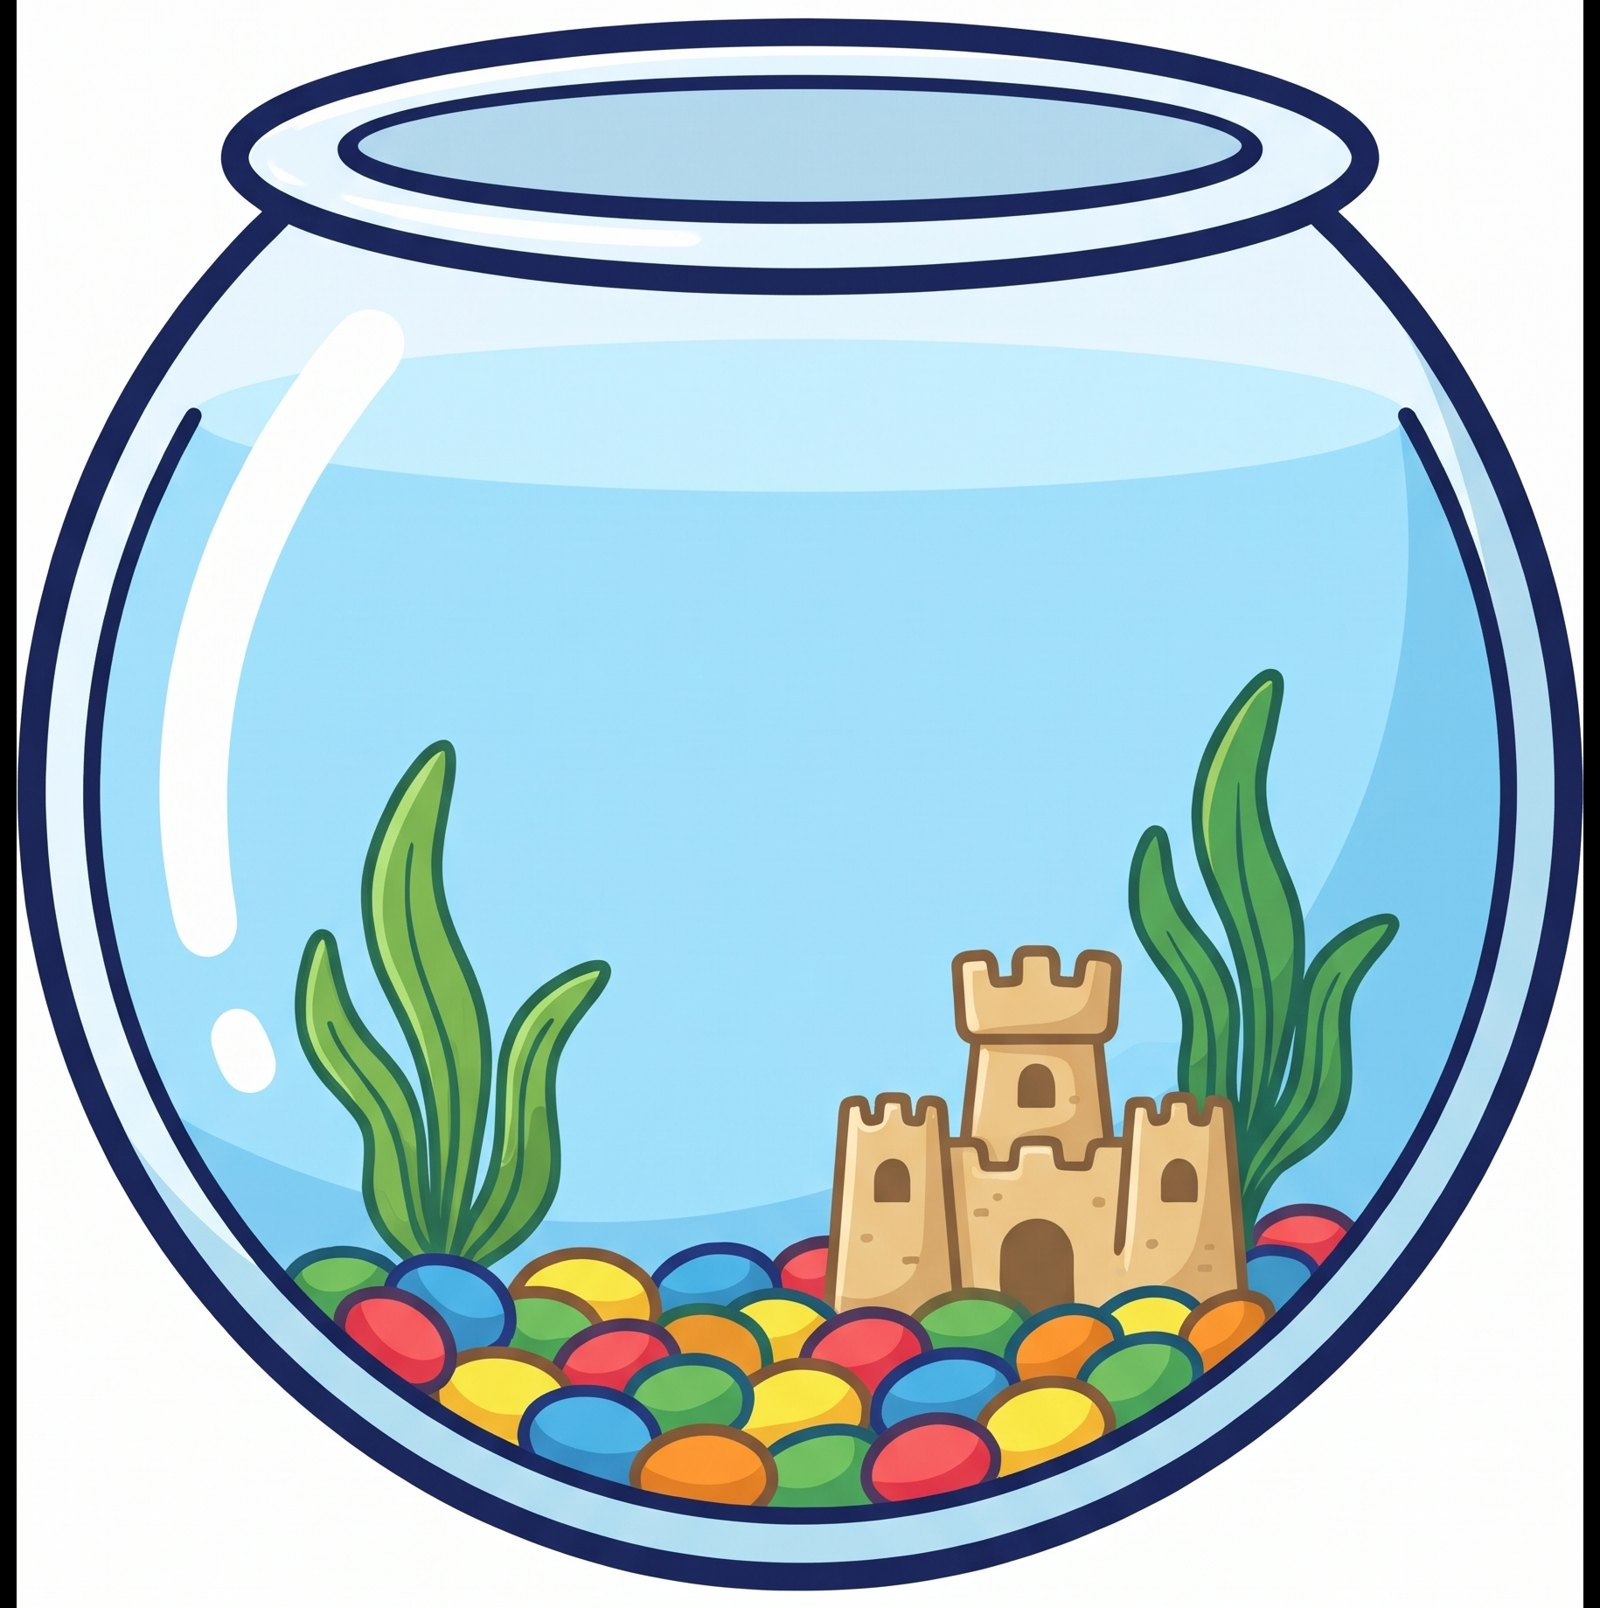
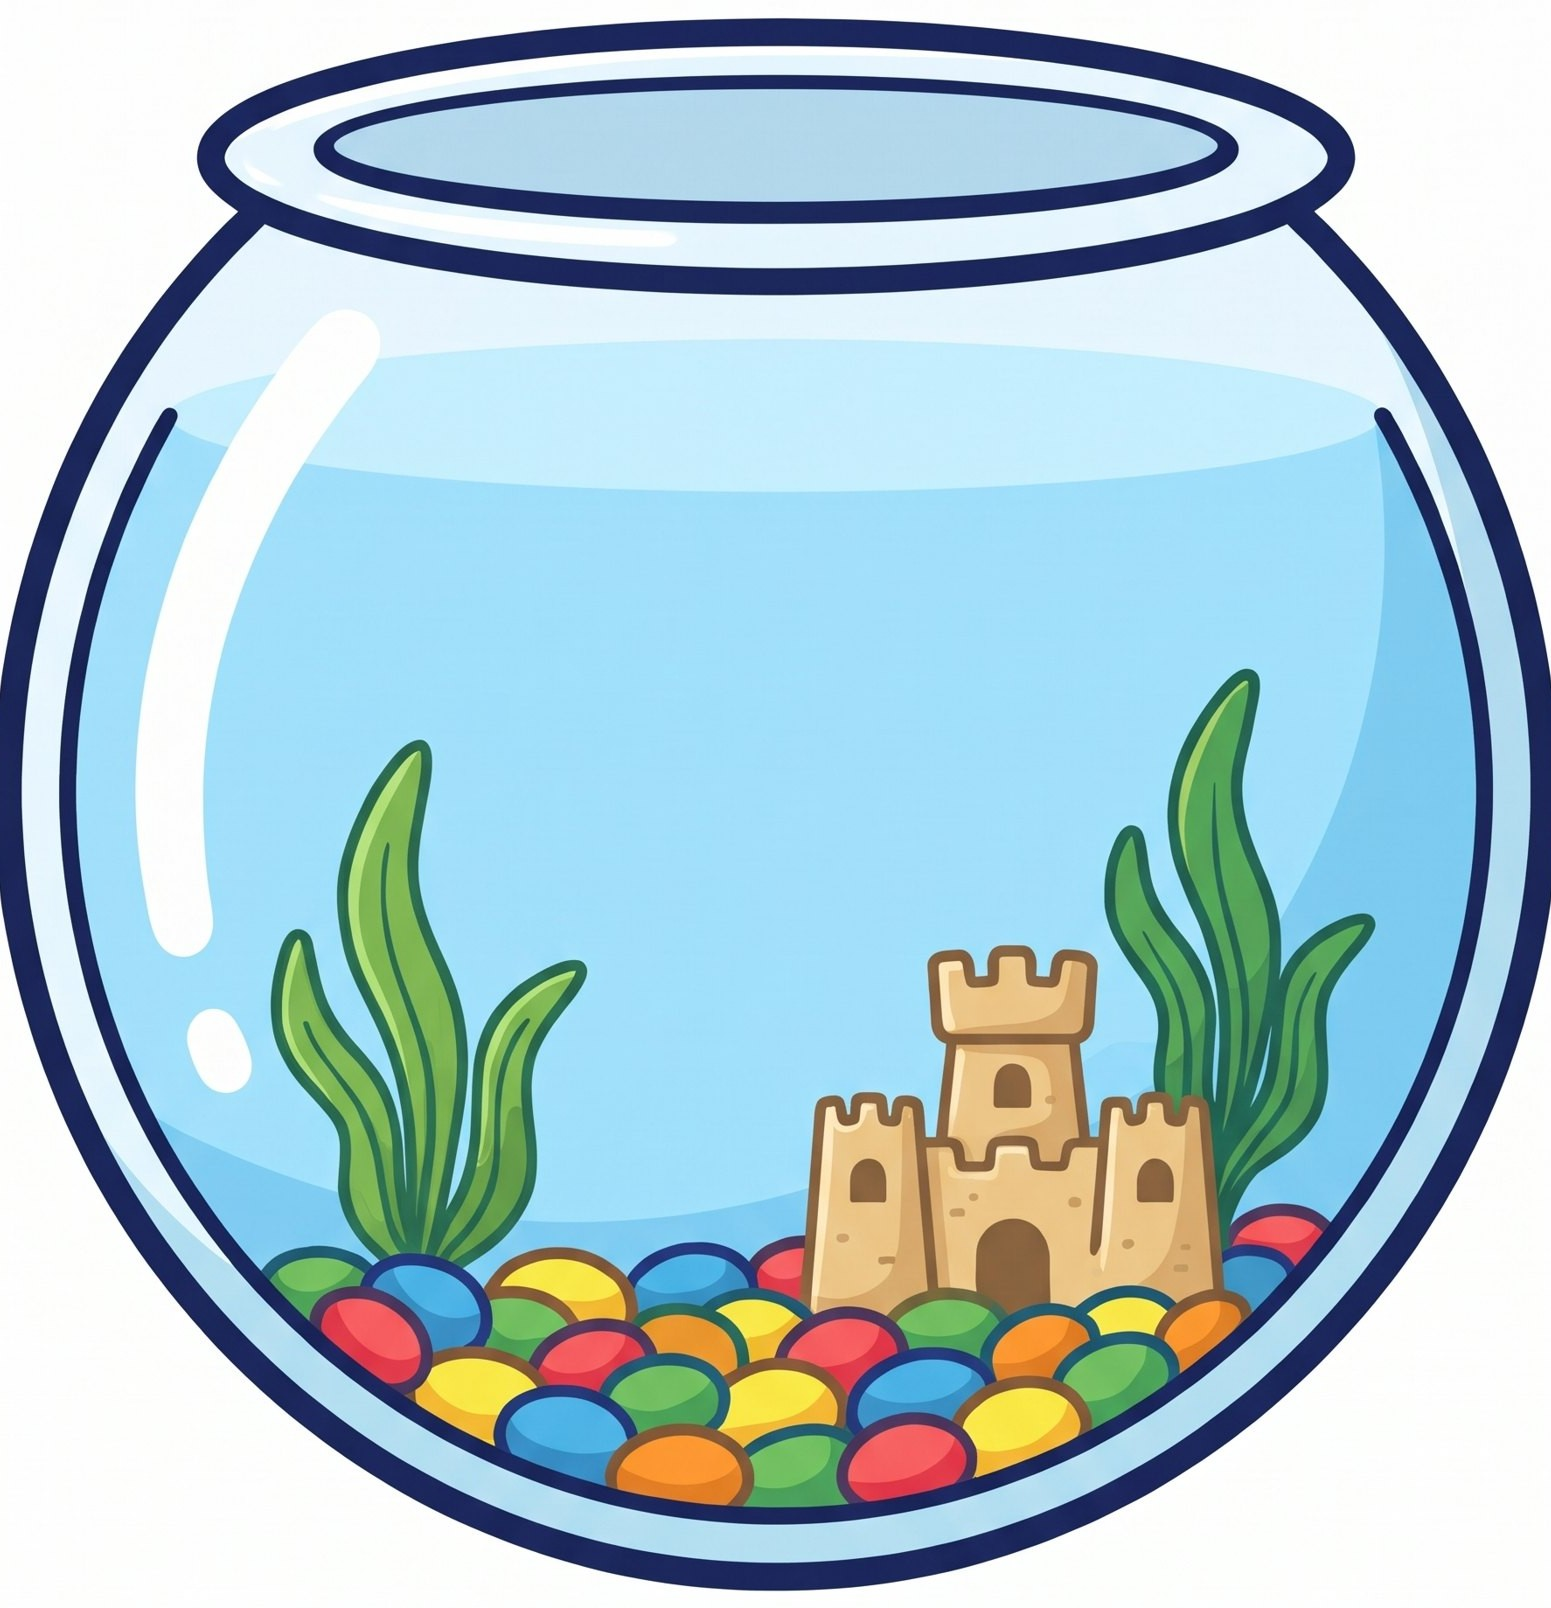
Vet kit: fix fish bowl edges and fish cut circles, add clinic notepad page (#194)
Claude-Session: https://claude.ai/code/session_01MVCCifdUDWfGEXCNaTCuGV

diff --git a/src/kits/clinic.js b/src/kits/clinic.js
@@ -155,6 +155,22 @@ function adoptionPages(k) {
   <section class="page ac-page"><p class="pg-sub">Adoption certificates: one for each pet that finds a new family. Fold one in half to fit it in the folder pocket.</p>${adoptionCert(k)}<div class="cut-h"></div>${adoptionCert(k)}</section>`;
 }
 
+// ---------- vet notepad ----------
+
+// Four little notepad sheets to a page, like the one Jason's wife made (2026-11-17): a to-do list with
+// a "when" line beside each box, and room for notes. The round logo is a paw, not a smiley (no faces).
+function notepadSheet(k) {
+  const N = k.def.notepad;
+  const row = () => '<div class="np-row"><i class="box"></i><span class="np-l"></span><span class="np-d"></span></div>';
+  return `<div class="np-cut"><div class="np"><div class="np-top"><div class="np-logo">${art.pic('🐾', '.34in')}</div><b>${esc(N.title)}</b></div>
+    <div class="np-icons">${art.pic('📋', '.5in')}<span>${esc(N.when)}</span>${art.pic('📅', '.5in')}</div>
+    ${Array.from({ length: 6 }, row).join('')}
+    <div class="np-notes">${art.pic('📝', '.5in')}<div><span class="np-l"></span><span class="np-l"></span><span class="np-l"></span></div></div>
+  </div></div>`;
+}
+
+const notepadPage = (k) => (k.def.notepad ? `<section class="page np-page"><p class="pg-sub">Clinic notepad: cut the pad sheets apart on the dashed lines. Write down what each pet needs and when.</p><div class="np-grid">${notepadSheet(k).repeat(4)}</div></section>` : '');
+
 // ---------- bandages ----------
 
 const PATTERNS = [
@@ -350,8 +366,8 @@ const clinicCss = `
 /* fish bowl */
 .fb-page { padding:.4in .45in; display:flex; flex-direction:column; align-items:center; }
 .fb-bowl { flex:1; min-height:0; width:100%; object-fit:contain; margin-top:.1in; }
-.fb-fish { flex:1; display:grid; grid-template-columns:repeat(3, minmax(0,1fr)); gap:.18in; align-content:center; width:7.2in; max-width:100%; box-sizing:border-box; margin-top:.15in; }
-.fb-cut { border:1.5px dashed #b7c0cc; border-radius:50%; aspect-ratio:1.25; display:grid; place-items:center; padding:.18in; min-width:0; box-sizing:border-box; overflow:hidden; }
+.fb-fish { flex:1; display:grid; grid-template-columns:repeat(3, minmax(0,1fr)); gap:.18in; align-content:center; width:7.4in; max-width:100%; box-sizing:border-box; margin-top:.15in; }
+.fb-cut { border:1.5px dashed #b7c0cc; border-radius:50%; aspect-ratio:1.1; display:grid; place-items:center; padding:.36in; min-width:0; box-sizing:border-box; overflow:hidden; }
 .fb-cut img { max-width:100%; max-height:100%; object-fit:contain; }
 /* adoption folder and certificates */
 .af-page { padding:.35in .4in; display:flex; flex-direction:column; } .af-page .pg-sub { margin:0 0 .1in; }
@@ -379,6 +395,18 @@ const clinicCss = `
 .ac-words { flex:1; display:flex; flex-direction:column; justify-content:center; gap:.1in; text-align:center; } .ac-words p { font:500 13pt/1.3 'Fredoka'; color:var(--navy); margin:0; }
 .ac-f, .ac-sign > div { display:flex; flex-direction:column; } .ac-f small, .ac-sign small { font:500 9pt 'Fredoka'; color:#8a93a8; text-align:center; }
 .ac-sign { display:flex; gap:.5in; } .ac-sign > div { flex:1; }
+/* notepad */
+.np-page { padding:.35in .4in; display:flex; flex-direction:column; } .np-page .pg-sub { margin:0 0 .12in; }
+.np-grid { flex:1; min-height:0; display:grid; grid-template-columns:1fr 1fr; grid-template-rows:minmax(0,1fr) minmax(0,1fr); }
+.np-cut { border:1.5px dashed #b7c0cc; margin:-.75px; padding:.12in; display:flex; }
+.np { flex:1; display:flex; flex-direction:column; border-radius:6px; overflow:hidden; background:#fff; box-shadow:0 0 0 1.5px var(--teal) inset; }
+.np-top { background:var(--teal); display:grid; place-items:center; padding:.1in 0; }
+.np-top b { display:none; }
+.np-logo { width:.55in; height:.55in; border:3px solid #fff; border-radius:50%; display:grid; place-items:center; background:#fff; }
+.np-icons { display:flex; justify-content:space-between; align-items:center; padding:.1in .35in .02in .3in; } .np-icons span { display:none; }
+.np-row { display:flex; align-items:flex-end; gap:.12in; padding:.07in .3in 0; flex:1; } .np-row .box { border-color:var(--teal); flex:none; margin-bottom:.02in; }
+.np-l { flex:1; border-bottom:2px solid var(--teal); height:100%; min-height:.14in; } .np-d { width:1.1in; flex:none; border-bottom:2px solid var(--teal); height:100%; min-height:.14in; }
+.np-notes { display:flex; align-items:flex-end; gap:.1in; padding:.1in .3in .15in; flex:1.4; } .np-notes > div { flex:1; height:100%; display:flex; flex-direction:column; justify-content:space-around; } .np-notes .np-l { flex:none; height:.1in; width:100%; }
 /* bandages */
 .bd-page { padding:.4in .45in; display:flex; flex-direction:column; align-items:center; }
 .bd-row { display:flex; gap:.18in; justify-content:center; margin-top:.05in; }
@@ -448,4 +476,4 @@ const clinicCss = `
 .tc-seal { width:auto !important; }
 `;
 
-module.exports = { adoptionPages, fishbowlPages, doorSignPages, fileSheetPage, wrapLabelPages, bandagePages, tabletPages, checkupPages, trainingPage, clinicCss };
+module.exports = { notepadPage, adoptionPages, fishbowlPages, doorSignPages, fileSheetPage, wrapLabelPages, bandagePages, tabletPages, checkupPages, trainingPage, clinicCss };

diff --git a/docs/js/data.js b/docs/js/data.js
@@ -162,7 +162,7 @@ const LAYERS = [
 const PRICES = { hunt: 9.99, kit: 7.99, party: 4.99, 'hunt+kit': 14.99, 'hunt+party': 12.99, 'kit+party': 11.99, bundle: 15.99, activity: 6.99, activityAdd: 4 };
 // Real page counts from scripts/page-counts.js (re-run it after adding pages). A hunt is 7 pages plus
 // one sheet per two clue cards, so it follows the spots picked.
-const PAGES = {"kit":{"dino":44,"hero":44,"pirate":44,"space":44,"royal":44,"unicorn":45,"mermaid":45,"construction":45,"vet":54,"easter":47,"halloween":46,"christmas":44,"valentine":44,"fire":42,"ice":45,"racecar":45,"pizza":54,"burger":47,"grocery":48,"post":49,"library":48,"police":47,"dentist":51,"petshop":47,"coffee":48,"italian":54,"auto":47,"kitchen":57,"doctor":51,"puppet":50,"agent":54,"dressup":49,"icecream":51,"airport":49},"activity":{"big":19,"little":20},"party":15,"craft":{"halloween":20,"christmas":20,"memory":29,"zoo":28,"fingerprint":28}};
+const PAGES = {"kit":{"dino":44,"hero":44,"pirate":44,"space":44,"royal":44,"unicorn":45,"mermaid":45,"construction":45,"vet":55,"easter":47,"halloween":46,"christmas":44,"valentine":44,"fire":42,"ice":45,"racecar":45,"pizza":54,"burger":47,"grocery":48,"post":49,"library":48,"police":47,"dentist":51,"petshop":47,"coffee":48,"italian":54,"auto":47,"kitchen":57,"doctor":51,"puppet":50,"agent":54,"dressup":49,"icecream":51,"airport":49},"activity":{"big":19,"little":20},"party":15,"craft":{"halloween":20,"christmas":20,"memory":29,"zoo":28,"fingerprint":28}};
 function pagesOf(k, theme, spots = 6, ages = 'big') {
   return { hunt: 7 + Math.ceil(Math.min(10, Math.max(6, spots)) / 2), kit: PAGES.kit[theme], activity: PAGES.activity[ages] + (typeof ORIGAMI !== 'undefined' && ORIGAMI[theme] ? 2 : 0), party: PAGES.party }[k] || 0;
 }

diff --git a/src/kits/defs/vet.js b/src/kits/defs/vet.js
@@ -143,6 +143,8 @@ module.exports = {
   fishbowl: { title: 'Fish Bowl', howTo: 'Hang the bowl on a wall or the side of a box, then add the fish from the next page. Who will adopt a fish today?' },
   // Adoption Papers pocket folder and adoption certificates (clinic.js, Jason 2026-11-17).
   adoption: { title: 'Adoption Papers', certTitle: 'Adoption Certificate', flap: 'Keep your pet’s papers safe in here', pocket: 'Pet Papers', promise: 'and will be fed, walked, cuddled and loved forever.' },
+  // Clinic notepad sheets, four to a page (clinic.js, Jason 2026-11-17).
+  notepad: { title: 'Clinic Notepad', when: 'When' },
   // The clinic tablet: one screen per page, as if the vet tapped a different button (clinic.js).
   tablet: { app: 'PawCare', screens: ['appointments', 'patient', 'monitor', 'xray'] },
   // File-folder size check-up cards (clinic.js): the pet's details and picture, the services it

diff --git a/src/kits/engine.js b/src/kits/engine.js
@@ -285,6 +285,7 @@ function guidePage(k) {
     ...(extras.hasWow(k) ? [d.wow.inside] : []),
     ...bigLine(k),
     ...(d.jars ? [`${d.jars.length} wrap-around jar labels`] : []),
+    ...(d.notepad ? ['A page of four clinic notepad sheets with a to-do list and notes'] : []),
     ...(d.adoption ? ['An Adoption Papers pocket folder to cut and fold, and two adoption certificates to keep in it'] : []),
     ...(d.fishbowl ? ['A big fish bowl to hang up, with nine fish to cut out and put in it'] : []),
     ...(d.wrapLabels ? [`${d.wrapLabels.length} long wrap-around food and treat jar labels with pretend food on both ends`] : []),
@@ -707,6 +708,7 @@ function buildKitHtml(cfg) {
     clinic.bandagePages(k),
     clinic.fishbowlPages(k),
     clinic.adoptionPages(k),
+    clinic.notepadPage(k),
     gadgetPages(k),
     clinic.tabletPages(k),
     bigPages(k, ['screen']),

diff --git a/src/bot/listings.js b/src/bot/listings.js
@@ -36,7 +36,7 @@ const ETSY_THEMES = Object.keys(PACK_SECTIONS);
 const SINGLE_PRICE = 1.0;
 const BUNDLE_PRICE = 2.0;
 // Bump this when the attached files change: the next update replaces them on every listing.
-const FILES_VERSION = 'static-2026-11-17'; // 2026-11-17: the vet's adoption folder, fish bowl, medicine strips. b: the vet's two X-ray sets. // 2026-11-12: vet kit round 2 (2026-11-07: the vet kit review; 2026-11-02: the vet kit got its big sign)
+const FILES_VERSION = 'static-2026-11-17b'; // 2026-11-17: the vet's adoption folder, fish bowl, medicine strips. b: the vet's two X-ray sets. // 2026-11-12: vet kit round 2 (2026-11-07: the vet kit review; 2026-11-02: the vet kit got its big sign)
 // Listings from before then that needed a name. The next update deactivates them on Etsy.
 const RETIRED = ['bundle', 'kits', 'party'];
 

diff --git a/docs/handprint-art/index.html b/docs/handprint-art/index.html
@@ -78,7 +78,7 @@
   </div>
 </footer>
 <script src="js/names.js?v=e3031f47"></script>
-<script src="js/data.js?v=79165228"></script>
+<script src="js/data.js?v=9abd8465"></script>
 <script src="js/site.js?v=3dd597c5"></script>
 <script>
 // Handprint art packs are ordered on their own: tapping one opens its pages with a buy form under them.

diff --git a/docs/play-kits/index.html b/docs/play-kits/index.html
@@ -84,7 +84,7 @@
   </div>
 </footer>
 <script src="js/names.js?v=e3031f47"></script>
-<script src="js/data.js?v=79165228"></script>
+<script src="js/data.js?v=9abd8465"></script>
 <script src="js/site.js?v=3dd597c5"></script>
 <script>
 // Tapping a shop kit opens its pages (both age versions and the box build) with a buy form under them.

diff --git a/docs/activity-pages/index.html b/docs/activity-pages/index.html
@@ -99,7 +99,7 @@
   </div>
 </footer>
 <script src="js/names.js?v=e3031f47"></script>
-<script src="js/data.js?v=79165228"></script>
+<script src="js/data.js?v=9abd8465"></script>
 <script src="js/site.js?v=3dd597c5"></script>
 <script>
 // Theme tiles open that theme's activity pages (both age versions); the button orders just the pack.

diff --git a/docs/index.html b/docs/index.html
@@ -302,7 +302,7 @@
   </div>
 </footer>
 <script src="js/names.js?v=e3031f47"></script>
-<script src="js/data.js?v=79165228"></script>
+<script src="js/data.js?v=9abd8465"></script>
 <script src="js/site.js?v=3dd597c5"></script>
 <script src="js/home.js?v=ff25b245"></script>
 </body>

diff --git a/docs/make/index.html b/docs/make/index.html
@@ -158,7 +158,7 @@
   </div>
 </footer>
 <script src="js/names.js?v=e3031f47"></script>
-<script src="js/data.js?v=79165228"></script>
+<script src="js/data.js?v=9abd8465"></script>
 <script src="js/site.js?v=3dd597c5"></script>
 <script src="js/make.js?v=589461f0"></script>
 </body>

diff --git a/notes/PROJECT-NOTES.md b/notes/PROJECT-NOTES.md
@@ -69,7 +69,7 @@ Jason's wife (co-creator of the original "Printable Vet Clinic Package") marked 
 
 **Round 2 (Jason, 2026-11-11):** pet pictures on the check-up cards were spilling over their boxes (little kids pictures are 1.3x, so `.fc-photo .pic` is now capped); door sign grids overflowed the page; the welcome poster awning was clipped (its viewBox was shorter than the scallops, and it sat in the printer's top margin; fixed for every shop kit); Open is a sun (`counterIcons` for the counter sign) and Closed a plain moon (the face-free moon still had its sleeping cap); jar labels are now 9.4 inches, printed on their side with food on both ends to trim; the Pet X-Rays page and the clinic picture-card sheet were deleted. **Big sign glue strip** (every shop kit): it is now exactly one awning stripe wide and printed with the same stripe as the edge that covers it, so the flags still meet when a cut is a little off. Gemini Pro prompts for two new anatomically correct X-ray sets (little kids: the X-ray only, no words or icons; big kids: labelled bones) are in `project-files/pretend-play/vet-review/xray-scan-prompts.md`; Jason made them on 2026-11-12: `art/vet/big/01-05-hero-*.jpg` (real-looking, big kids only) and `06/07-xcards-little-*.jpg` (his 6-card cartoon sheet split into two pages, little kids only). They replace the old bird X-ray and the grainy 4-card page. **pages.json entries can carry `"ages": "little"` or `"big"`** to go in one version only (`bigList(id, ages)`); kind `xcards` is portrait (not in big-previews' LANDSCAPE list) and sits where `cards` go.
 
-**Round 3 (Jason and his wife, 2026-11-17), all in the vet kit rather than a new kit:** her kraft-folder mock-ups were redrawn sharp with `gemini-3-pro-image` using her screenshots as the reference (`project-files/pretend-play/vet-review/tools/gen_round3.py`): Adoption Agency sign (`big/08-signs-adoption.jpg`), "Adopted Pet" bone name tags (`big/09-labels-adopted-tags.jpg`, 6 a sheet, blank to write the name) and an X-ray screen prop (`big/10-screen-xray.jpg`), listed in `big/pages.json`. `def.fishbowl` (clinic.js `fishbowlPages`) prints an empty fish bowl page (`art/vet/sheets/fishbowl.jpg`) plus a page of nine cut-out fish (`art/vet/fish/fish-1..9.jpg`, cut from one Gemini sheet) to tape on top. `def.adoption` (clinic.js `adoptionPages`) is a pocket folder drawn in SVG from her photo of a folding kraft folder (side flap with a round tab, bottom flap with a red slit; the bottom flap's words are upside down so they read right once folded) plus two adoption certificates. `def.medLabels` adds a second set of 9.4in jar strips with pretend medicine on the ends (`art/vet/fill/pills|vitamins|capsules|drops.jpg`, made with `gemini-3.1-flash-image` from the bones strip as the style reference). ComfyUI on Jason's D drive was not needed. Little kit is now 54 pages (PAGES in docs/js/data.js).
+**Round 3 (Jason and his wife, 2026-11-17), all in the vet kit rather than a new kit:** her kraft-folder mock-ups were redrawn sharp with `gemini-3-pro-image` using her screenshots as the reference (`project-files/pretend-play/vet-review/tools/gen_round3.py`): Adoption Agency sign (`big/08-signs-adoption.jpg`), "Adopted Pet" bone name tags (`big/09-labels-adopted-tags.jpg`, 6 a sheet, blank to write the name) and an X-ray screen prop (`big/10-screen-xray.jpg`), listed in `big/pages.json`. `def.fishbowl` (clinic.js `fishbowlPages`) prints an empty fish bowl page (`art/vet/sheets/fishbowl.jpg`) plus a page of nine cut-out fish (`art/vet/fish/fish-1..9.jpg`, cut from one Gemini sheet) to tape on top. `def.adoption` (clinic.js `adoptionPages`) is a pocket folder drawn in SVG from her photo of a folding kraft folder (side flap with a round tab, bottom flap with a red slit; the bottom flap's words are upside down so they read right once folded) plus two adoption certificates. `def.medLabels` adds a second set of 9.4in jar strips with pretend medicine on the ends (`art/vet/fill/pills|vitamins|capsules|drops.jpg`, made with `gemini-3.1-flash-image` from the bones strip as the style reference). ComfyUI on Jason's D drive was not needed. Little kit is now 55 pages (PAGES in docs/js/data.js). Follow-up the same night: black bars trimmed off the fish bowl art, fish circles made roomier so fins stay inside the cut line, and `def.notepad` (clinic.js `notepadPage`): four clinic notepad sheets to a page, copied from her photo with a paw instead of her smiley logo.
 
 **Site scripts:** a kit with no `def.wow` page now falls back to another page (`scripts/gallery-images.js`, `scripts/site-images.js`), and `bannerExtender` shifts the gallery's first toy page by one.
 
